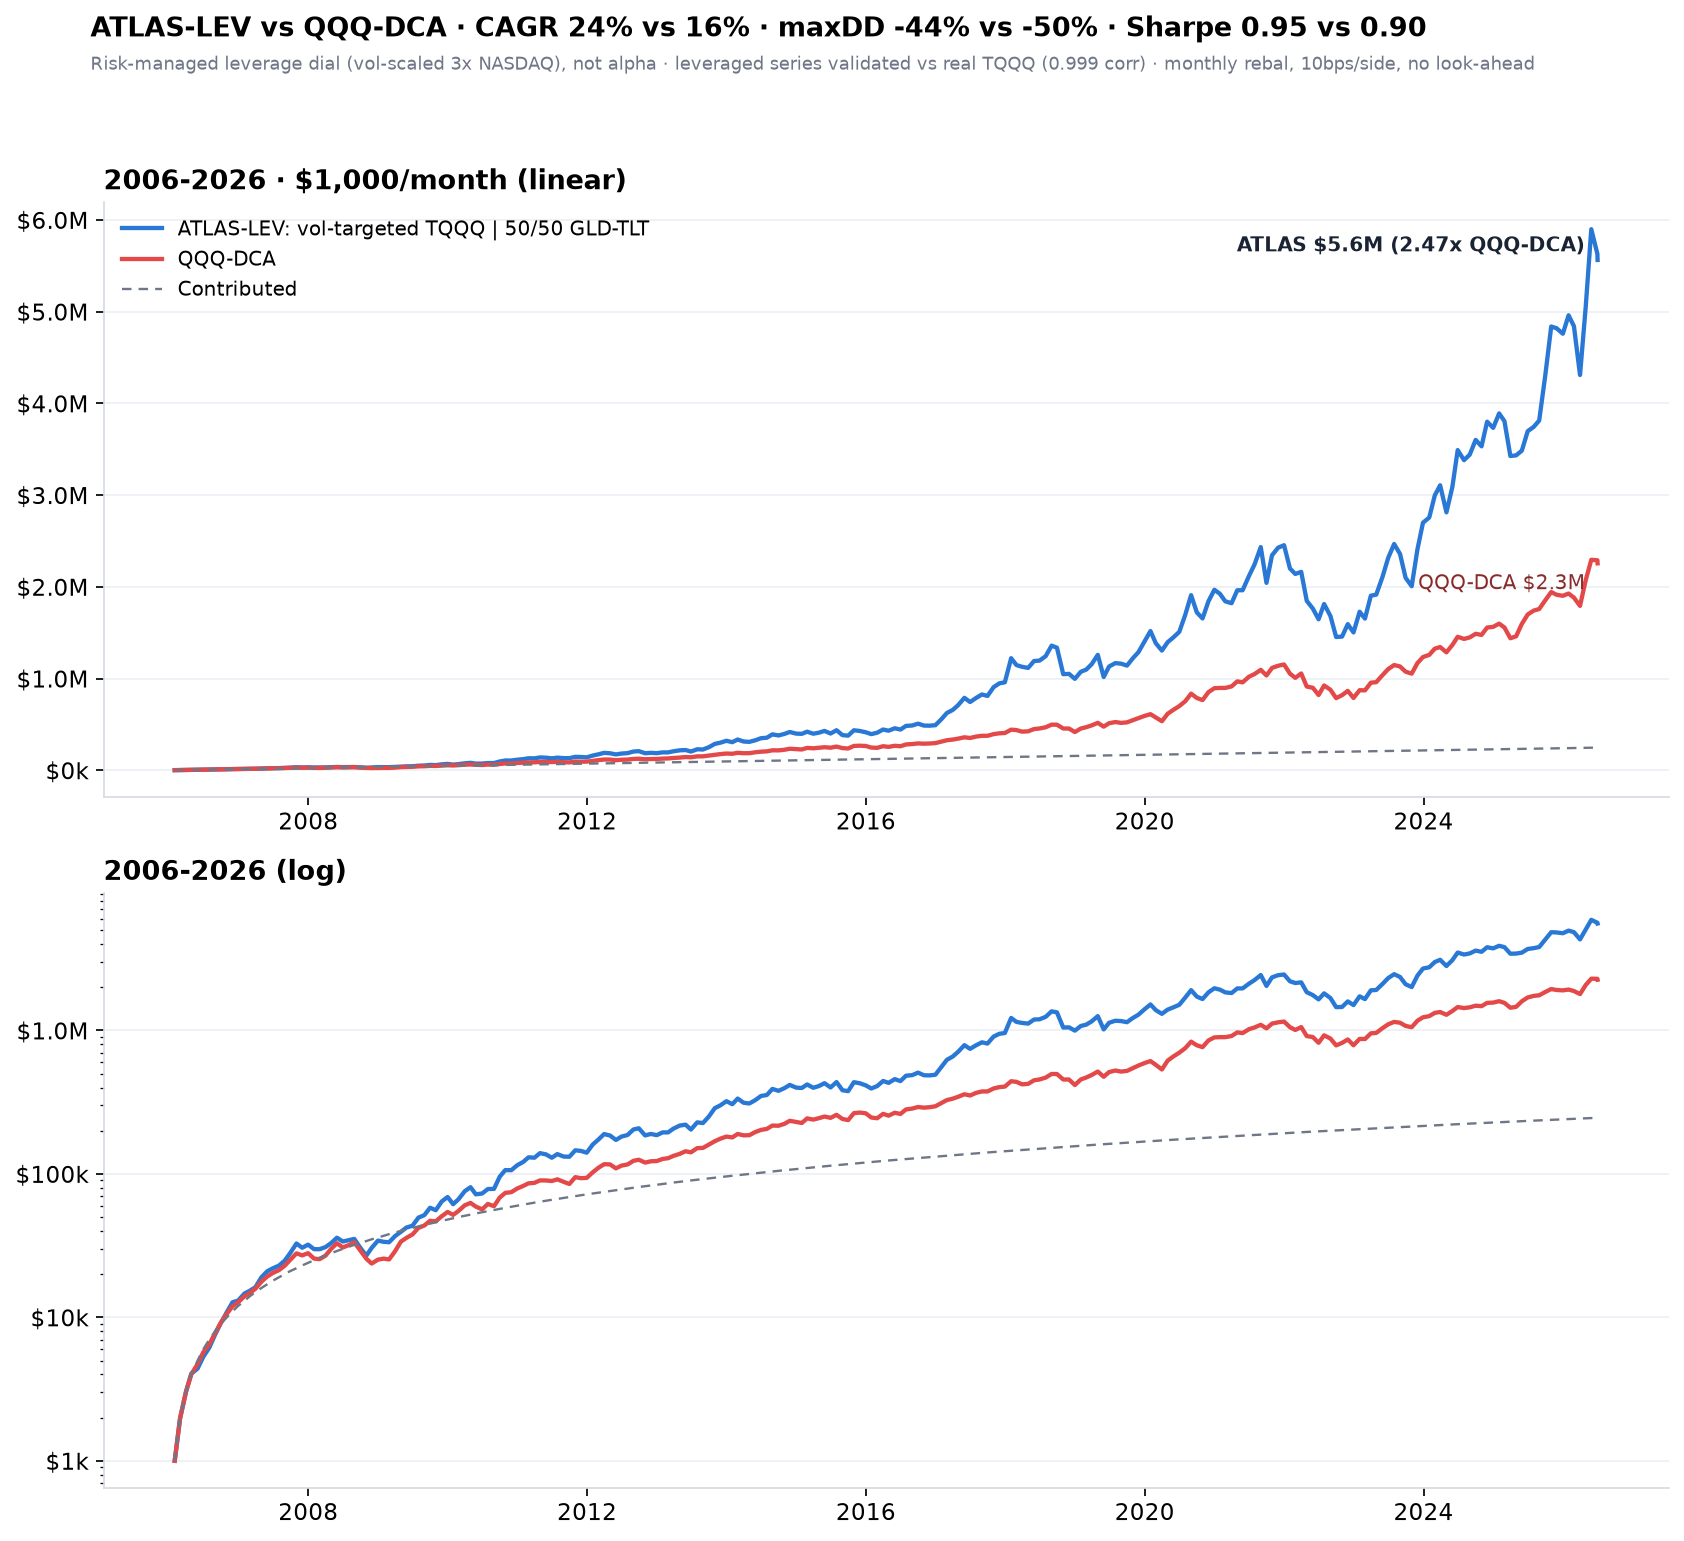
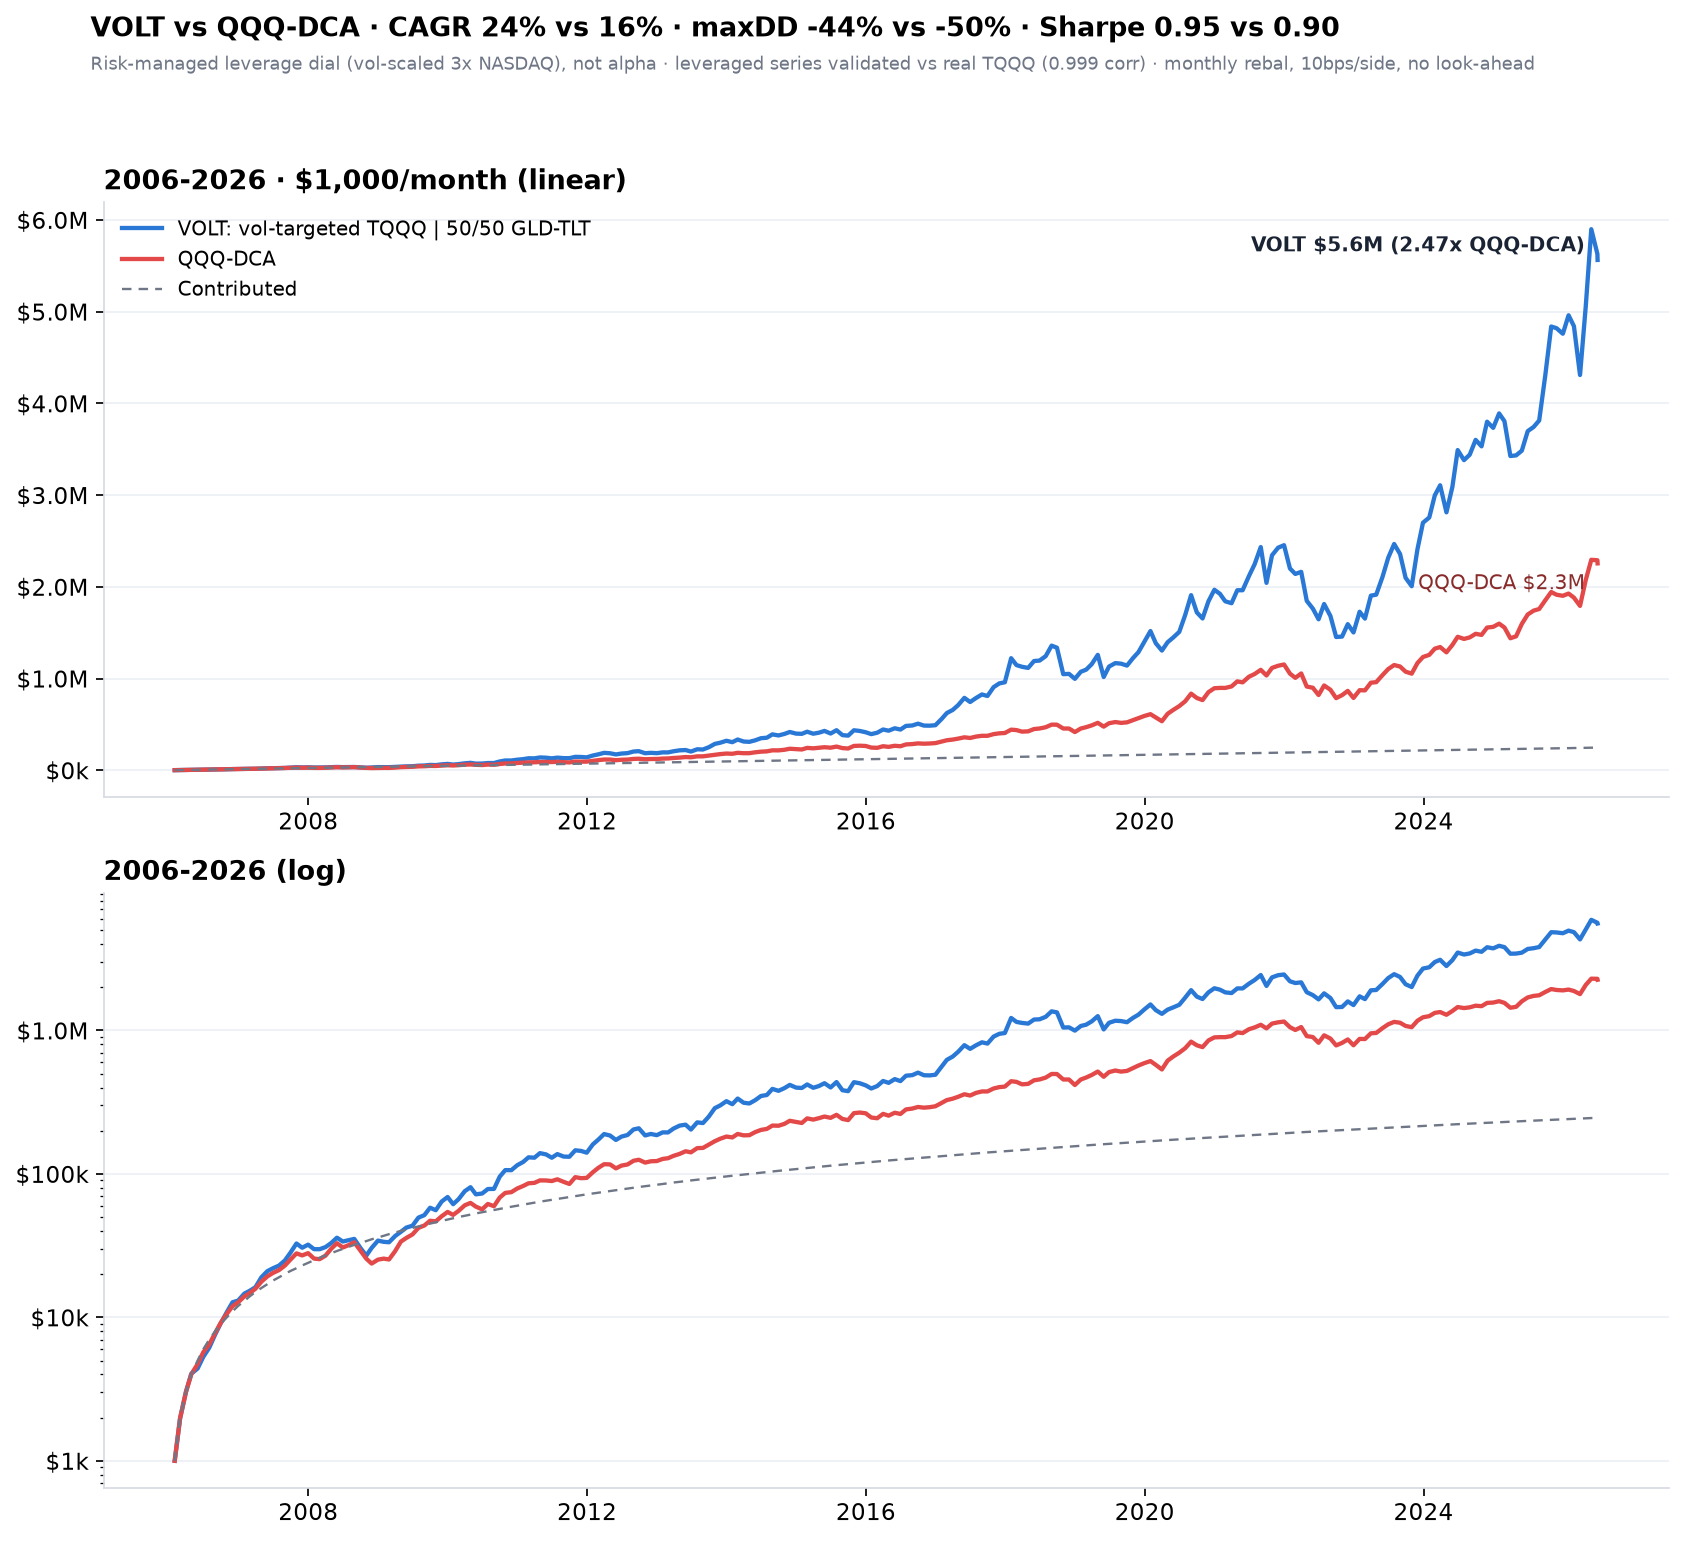
site: brand as VOLT (drop v2 label), reflect overlay comprehensively as core method
Per request: visible branding is just 'VOLT' (title/header/eyebrow/index link), but the
acceleration overlay is now documented as a CORE step of the strategy everywhere:
- factsheet allocation rule shows vol* = 63d vol raised on 20d-vol acceleration
- README strategy section adds the overlay as step 2 (of the numbered rule)
- chart PNG + strategy.py labels renamed ATLAS-LEV -> VOLT
All v2 numbers intact (2.57x, CAGR 24.0%, Sharpe 0.95, maxDD -44%, dot-com -58%).

Claude-Session: https://claude.ai/code/session_019upFmxVEn89A1u2zEUMvDR

Changed region(s): [[0.0618, 0.0, 0.8646, 0.0311], [0.0926, 0.1246, 0.3705, 0.1557], [0.7411, 0.1557, 0.772, 0.1869]]

diff --git a/docs/volt.html b/docs/volt.html
@@ -1,4 +1,4 @@
-<!doctype html><html lang='en'><head><meta charset='utf-8'><meta name='viewport' content='width=device-width,initial-scale=1'><title>VOLT v2 — Strategy Factsheet</title></head><body><style>
+<!doctype html><html lang='en'><head><meta charset='utf-8'><meta name='viewport' content='width=device-width,initial-scale=1'><title>VOLT — Strategy Factsheet</title></head><body><style>
 :root{
   --ground:#0e1420; --surface:#161d2b; --surface2:#1c2536; --hair:#28324a;
   --ink:#e8eef7; --ink2:#aeb9cc; --muted:#7f8ca3;
@@ -86,8 +86,8 @@ tbody tr:hover td{background:var(--surface2);color:var(--ink)}
 <div class="wrap">
   <div class="top">
     <div>
-      <div class="eyebrow">Systematic Strategy · Factsheet · v2</div>
-      <h1>VOLT <span style="font-size:.5em;font-weight:700;letter-spacing:.04em;color:var(--accent);vertical-align:middle">v2</span> <span class="tag">vol-targeted leveraged NASDAQ · acceleration overlay</span></h1>
+      <div class="eyebrow">Systematic Strategy · Factsheet</div>
+      <h1>VOLT <span class="tag">vol-targeted leveraged NASDAQ</span></h1>
       <p class="sub">A monthly dollar-cost-average that scales exposure to <b>3&#215; NASDAQ (TQQQ)</b> by its own volatility, holding a <b>50/50 gold&#8211;Treasury</b> sleeve for the rest, with a <b>volatility-acceleration overlay</b> that de-risks faster into crashes. It beats DCA-into-QQQ in every era since 2006 &#8212; a <b>risk-managed leverage dial, not stock-picking alpha</b>.</p>
     </div>
     <button class="themebtn" id="themeToggle">◑ THEME</button>
@@ -97,7 +97,7 @@ tbody tr:hover td{background:var(--surface2);color:var(--ink)}
     <div>
       <div class="lbl">This month&#8217;s allocation &#8212; computed from TQQQ&#8217;s trailing volatility <span id="curvol" class="mono"></span></div>
       <div class="bar" id="allocbar"></div>
-      <div class="pill dot" style="margin-top:12px">Rule: w<sub>TQQQ</sub> = clip( 30% &#247; annualized&nbsp;63d&nbsp;vol , 0 , 1 ) · rebalance monthly</div>
+      <div class="pill dot" style="margin-top:12px">Rule: w<sub>TQQQ</sub> = clip( 30% &#247; vol* , 0 , 1 ) · vol* = 63d&nbsp;vol, raised when 20d&nbsp;vol accelerates above it · rebalance monthly</div>
     </div>
     <div class="big" id="allocbig"></div>
   </div>

diff --git a/leverage_etf_dca/volt.html b/leverage_etf_dca/volt.html
@@ -1,4 +1,4 @@
-<!doctype html><html lang='en'><head><meta charset='utf-8'><meta name='viewport' content='width=device-width,initial-scale=1'><title>VOLT v2 — Strategy Factsheet</title></head><body><style>
+<!doctype html><html lang='en'><head><meta charset='utf-8'><meta name='viewport' content='width=device-width,initial-scale=1'><title>VOLT — Strategy Factsheet</title></head><body><style>
 :root{
   --ground:#0e1420; --surface:#161d2b; --surface2:#1c2536; --hair:#28324a;
   --ink:#e8eef7; --ink2:#aeb9cc; --muted:#7f8ca3;
@@ -86,8 +86,8 @@ tbody tr:hover td{background:var(--surface2);color:var(--ink)}
 <div class="wrap">
   <div class="top">
     <div>
-      <div class="eyebrow">Systematic Strategy · Factsheet · v2</div>
-      <h1>VOLT <span style="font-size:.5em;font-weight:700;letter-spacing:.04em;color:var(--accent);vertical-align:middle">v2</span> <span class="tag">vol-targeted leveraged NASDAQ · acceleration overlay</span></h1>
+      <div class="eyebrow">Systematic Strategy · Factsheet</div>
+      <h1>VOLT <span class="tag">vol-targeted leveraged NASDAQ</span></h1>
       <p class="sub">A monthly dollar-cost-average that scales exposure to <b>3&#215; NASDAQ (TQQQ)</b> by its own volatility, holding a <b>50/50 gold&#8211;Treasury</b> sleeve for the rest, with a <b>volatility-acceleration overlay</b> that de-risks faster into crashes. It beats DCA-into-QQQ in every era since 2006 &#8212; a <b>risk-managed leverage dial, not stock-picking alpha</b>.</p>
     </div>
     <button class="themebtn" id="themeToggle">◑ THEME</button>
@@ -97,7 +97,7 @@ tbody tr:hover td{background:var(--surface2);color:var(--ink)}
     <div>
       <div class="lbl">This month&#8217;s allocation &#8212; computed from TQQQ&#8217;s trailing volatility <span id="curvol" class="mono"></span></div>
       <div class="bar" id="allocbar"></div>
-      <div class="pill dot" style="margin-top:12px">Rule: w<sub>TQQQ</sub> = clip( 30% &#247; annualized&nbsp;63d&nbsp;vol , 0 , 1 ) · rebalance monthly</div>
+      <div class="pill dot" style="margin-top:12px">Rule: w<sub>TQQQ</sub> = clip( 30% &#247; vol* , 0 , 1 ) · vol* = 63d&nbsp;vol, raised when 20d&nbsp;vol accelerates above it · rebalance monthly</div>
     </div>
     <div class="big" id="allocbig"></div>
   </div>

diff --git a/docs/index.html b/docs/index.html
@@ -114,7 +114,7 @@ tr:hover{background:var(--card2)}
 <a href="hydra.html" style="display:block;padding:7px 12px;color:var(--t1);text-decoration:none;font-size:0.82rem;border-radius:4px" onmouseover="this.style.background='var(--card2)'" onmouseout="this.style.background='transparent'">HYDRA</a>
 <a href="nova34.html" style="display:block;padding:7px 12px;color:var(--t1);text-decoration:none;font-size:0.82rem;border-radius:4px" onmouseover="this.style.background='var(--card2)'" onmouseout="this.style.background='transparent'">NOVA</a>
 <a href="atlas.html" style="display:block;padding:7px 12px;color:var(--t1);text-decoration:none;font-size:0.82rem;border-radius:4px" onmouseover="this.style.background='var(--card2)'" onmouseout="this.style.background='transparent'">ATLAS</a>
-<a href="volt.html" style="display:block;padding:7px 12px;color:var(--t1);text-decoration:none;font-size:0.82rem;border-radius:4px" onmouseover="this.style.background='var(--card2)'" onmouseout="this.style.background='transparent'">VOLT v2 (vol-targeted LETF DCA)</a>
+<a href="volt.html" style="display:block;padding:7px 12px;color:var(--t1);text-decoration:none;font-size:0.82rem;border-radius:4px" onmouseover="this.style.background='var(--card2)'" onmouseout="this.style.background='transparent'">VOLT (vol-targeted LETF DCA)</a>
 <a href="meridian.html" style="display:block;padding:7px 12px;color:var(--t1);text-decoration:none;font-size:0.82rem;border-radius:4px" onmouseover="this.style.background='var(--card2)'" onmouseout="this.style.background='transparent'">MERIDIAN</a>
 <a href="titan.html" style="display:block;padding:7px 12px;color:var(--t1);text-decoration:none;font-size:0.82rem;border-radius:4px" onmouseover="this.style.background='var(--card2)'" onmouseout="this.style.background='transparent'">TITAN (BTC+ETH timing)</a>
 <a href="summit.html" style="display:block;padding:7px 12px;color:var(--t1);text-decoration:none;font-size:0.82rem;border-radius:4px" onmouseover="this.style.background='var(--card2)'" onmouseout="this.style.background='transparent'">SUMMIT (biweekly DCA stocks)</a>

diff --git a/leverage_etf_dca/scripts/strategy.py b/leverage_etf_dca/scripts/strategy.py
@@ -1,6 +1,6 @@
 """LEVERAGE-DCA — the validated deliverable.
 
-Strategy (ATLAS-LEV): monthly DCA into a vol-targeted leveraged-NASDAQ sleeve.
+Strategy (VOLT): monthly DCA into a vol-targeted leveraged-NASDAQ sleeve.
   each month, weight in TQQQ  w = clip(target_vol / trailing_63d_annualized_vol(TQQQ), 0, 1)
   remaining (1-w) in a 50/50 GLD+TLT defensive blend; rebalance monthly; 10bps/side.
   Weight decided at PRIOR month-end (no look-ahead). Leveraged series reconstructed
@@ -97,7 +97,7 @@ if __name__ == "__main__":
     BLUE,RED,INK = "#2a78d6","#e34948","#6f7787"
     fig,axes = plt.subplots(2,1,figsize=(11,10))
     for ax,(logy,ttl) in zip(axes,[(False,"2006-2026 · $1,000/month (linear)"),(True,"2006-2026 (log)")]):
-        ax.plot(eqA.index,eqA["V"],color=BLUE,lw=2,label="ATLAS-LEV: vol-targeted TQQQ | 50/50 GLD-TLT")
+        ax.plot(eqA.index,eqA["V"],color=BLUE,lw=2,label="VOLT: vol-targeted TQQQ | 50/50 GLD-TLT")
         ax.plot(bq.index,bq["V"],color=RED,lw=2,label="QQQ-DCA")
         ax.plot(eqA.index,eqA["contributed"],color=INK,lw=1.1,ls=(0,(4,3)),label="Contributed")
         if logy: ax.set_yscale("log")
@@ -105,13 +105,13 @@ if __name__ == "__main__":
         for sp in ("top","right"): ax.spines[sp].set_visible(False)
         ax.set_title(ttl,loc="left",fontweight="bold")
         ax.yaxis.set_major_formatter(lambda v,_: f"${v/1e6:.1f}M" if v>=1e6 else f"${v/1e3:.0f}k")
-    axes[0].annotate(f"ATLAS ${eqA['V'].iloc[-1]/1e6:.1f}M ({eqA['V'].iloc[-1]/bq['V'].iloc[-1]:.2f}x QQQ-DCA)",
+    axes[0].annotate(f"VOLT ${eqA['V'].iloc[-1]/1e6:.1f}M ({eqA['V'].iloc[-1]/bq['V'].iloc[-1]:.2f}x QQQ-DCA)",
                      xy=(eqA.index[-1],eqA["V"].iloc[-1]),xytext=(-6,4),textcoords="offset points",ha="right",
                      color="#1a2333",fontweight="bold",fontsize=9.5)
     axes[0].annotate(f"QQQ-DCA ${bq['V'].iloc[-1]/1e6:.1f}M",xy=(bq.index[-1],bq["V"].iloc[-1]),
                      xytext=(-6,-12),textcoords="offset points",ha="right",color="#8a2b2b",fontsize=9.5)
     axes[0].legend(loc="upper left",frameon=False,fontsize=9.3)
-    fig.suptitle(f"ATLAS-LEV vs QQQ-DCA · CAGR {lm['cagr']:.0%} vs {qs['cagr']:.0%} · maxDD {lm['maxdd']:.0%} vs {qs['maxdd']:.0%} · Sharpe {lm['sharpe']:.2f} vs {qs['sharpe']:.2f}",
+    fig.suptitle(f"VOLT vs QQQ-DCA · CAGR {lm['cagr']:.0%} vs {qs['cagr']:.0%} · maxDD {lm['maxdd']:.0%} vs {qs['maxdd']:.0%} · Sharpe {lm['sharpe']:.2f} vs {qs['sharpe']:.2f}",
                  x=0.06,y=0.99,ha="left",fontsize=12.5,fontweight="bold")
     fig.text(0.06,0.955,"Risk-managed leverage dial (vol-scaled 3x NASDAQ), not alpha · leveraged series validated vs real TQQQ (0.999 corr) · monthly rebal, 10bps/side, no look-ahead",fontsize=8.5,color=INK)
     fig.tight_layout(rect=(0,0,1,0.94))

diff --git a/leverage_etf_dca/README.md b/leverage_etf_dca/README.md
@@ -31,14 +31,15 @@ risk scaling with no discrete switch to get unlucky on). This is the well-docume
 "volatility-managed" effect (Moreira–Muir 2017): scaling exposure down when volatility is
 high improves the ride because high-vol periods don't pay proportionally more return.
 
-## 2. The strategy (ATLAS-LEV)
+## 2. The strategy (VOLT)
 
 Each month, on the last trading day:
 1. Estimate TQQQ's **trailing 63-day annualized volatility** (known at prior month-end — no look-ahead).
-2. Set the leveraged weight **w = clip( 0.30 / vol , 0 , 1 )**. (TQQQ vol ≈ 45–60% normally → w ≈ 0.5–0.65; in a vol spike w falls toward 0.)
-3. Hold **w in TQQQ** and **(1−w) in a 50/50 GLD+TLT defensive blend**.
-4. **Rebalance monthly** to those weights (this is the "sell when necessary" — you trim TQQQ as its vol rises, and rotate to defense; you add back as vol falls). 10 bps/side cost.
-5. DCA the fixed monthly contribution into the same target weights.
+2. **Acceleration overlay:** when the fast 20-day vol spikes above the slow 63-day vol, raise the vol estimate by `(vol_20 / vol_63)²` — so exposure is cut *faster* into an accelerating selloff, and not re-levered until the fast vol subsides.
+3. Set the leveraged weight **w = clip( 0.30 / vol*, 0 , 1 )**. (TQQQ vol ≈ 45–60% normally → w ≈ 0.5–0.65; in a vol spike w falls toward 0.)
+4. Hold **w in TQQQ** and **(1−w) in a 50/50 GLD+TLT defensive blend**.
+5. **Rebalance monthly** to those weights (this is the "sell when necessary" — you trim TQQQ as its vol rises, and rotate to defense; you add back as vol falls). 10 bps/side cost.
+6. DCA the fixed monthly contribution into the same target weights.
 
 **Leveraged data:** TQQQ/SOXL/etc. only launched ~2010, so pre-2010 is **reconstructed**
 from the real underlying (3× daily QQQ − fees − financing). The reconstruction was
@@ -81,7 +82,7 @@ at roughly the same risk efficiency**. That is exactly what a well-run leverage 
 * **2022 stress:** TLT-only defense lost −52% (rate shock); the GLD-TLT blend / cash held better — the reason the blend is the recommended defense.
 
 
-## v2 improvements tested (see findings files)
+## Improvements tested — what shipped and what didn't (see findings files)
 - **Vol-acceleration overlay — SHIPPED.** Keep the slow 63-day vol level but inflate the
   estimate when the fast 20-day vol spikes above it, so we de-lever on *acceleration* without
   re-levering prematurely. A genuine Pareto win: full ratio 2.41×→2.57×, CAGR 22.7%→24.0%,
@@ -120,7 +121,7 @@ python3 strategy.py         # prints the tables above + writes charts/equity_vol
 
 ## 6. Files
 * `scripts/build_panel.py` — builds the 53-ETF daily panel (37 real base + 16 leveraged reconstructed from underlyings, validated vs real TQQQ).
-* `scripts/strategy.py` — the ATLAS-LEV strategy, era/risk tables, and equity-curve chart.
+* `scripts/strategy.py` — the VOLT strategy, era/risk tables, and equity-curve chart.
 * `charts/equity_voltarget.png` — the equity curve.
 * `_etf_panel.pkl` — cached panel (reproducible via `build_panel.py`).
 
